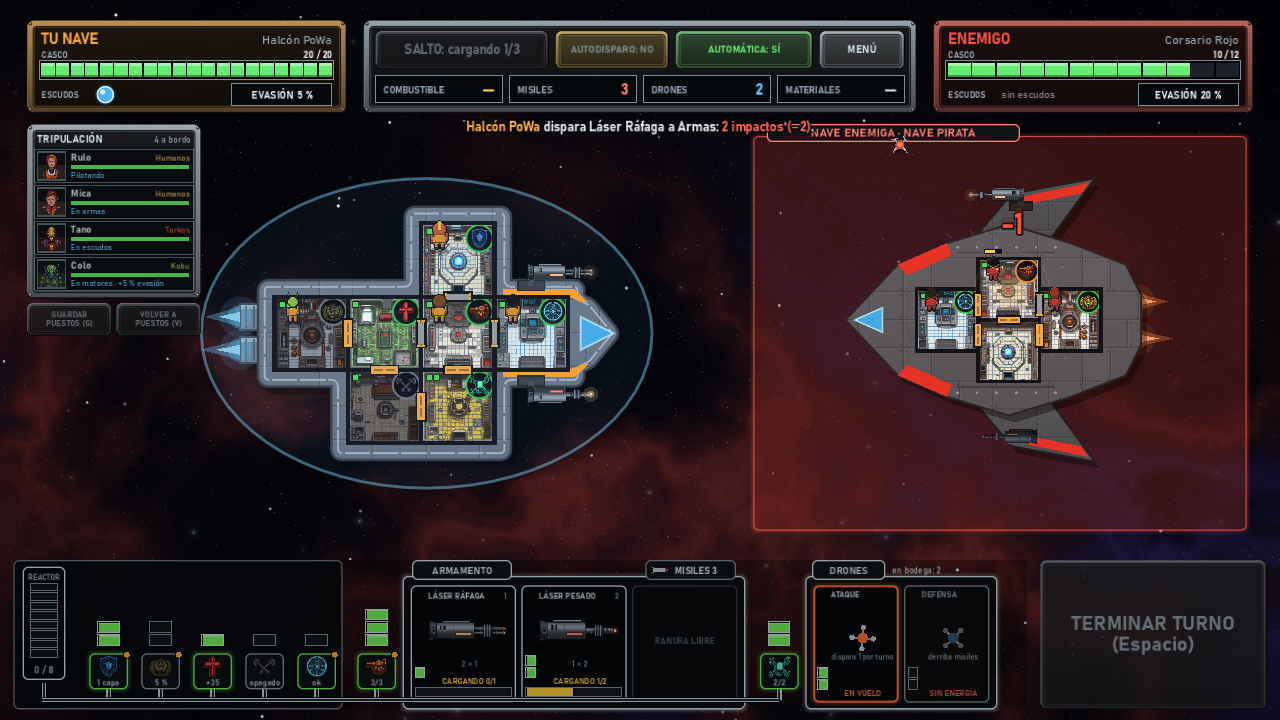
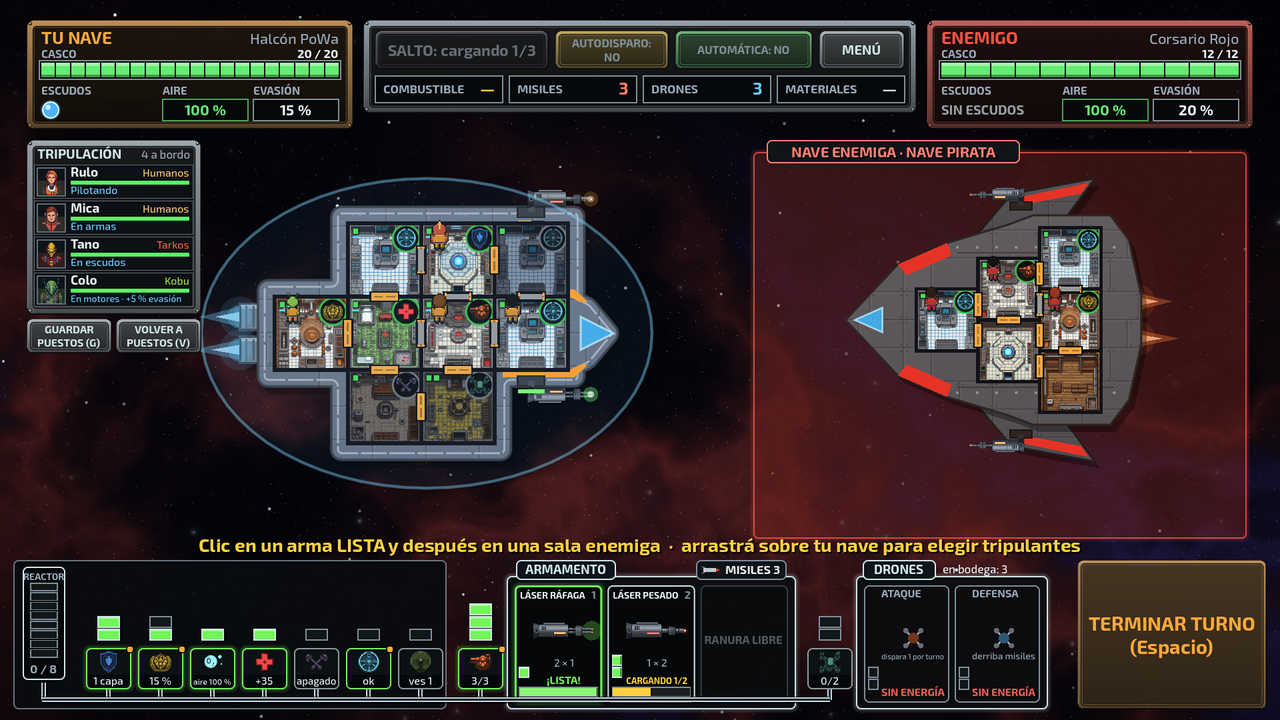
Demo v0.1.7: preparar combate, 33 eventos, mercados en el mapa

Changed region(s): [[0.0, 0.0306, 1.0, 0.6417], [0.0, 0.7333, 1.0, 1.0], [0.7188, 0.275, 0.9062, 0.6417]]

diff --git a/README.md b/README.md
@@ -8,9 +8,9 @@ antes de que ella te encuentre a vos.
 
 ## Descargar
 
-**[Descargá la demo v0.1.6](https://github.com/sebapowa/GalaxiaPoWa/releases/latest)** (Windows 10 u 11, 64 bits, 39 MB).
+**[Descargá la demo v0.1.7](https://github.com/sebapowa/GalaxiaPoWa/releases/latest)** (Windows 10 u 11, 64 bits, 39 MB).
 
-1. Bajá `GalaxiaPoWa_v0.1.6.zip` y descomprimilo.
+1. Bajá `GalaxiaPoWa_v0.1.7.zip` y descomprimilo.
 2. Abrí `Galaxia PoWa.exe`. No hace falta instalar nada.
 3. ¿Primera vez? Probá **TUTORIAL GUIADO** en el menú: una expedición de práctica que te va marcando qué hacer.
 
@@ -22,7 +22,8 @@ antes de que ella te encuentre a vos.
 
 - **Una galaxia nueva en cada partida**: unos 140 sistemas en seis regiones, con planetas, razas, estaciones y zonas sin ley.
 - **Supervivencia**: cada salto es un día; la tripulación come, el combustible se gasta y el casco se repara en los mercados.
-- **Combate nave contra nave** por turnos o en tiempo real con pausa: energía del reactor, escudos, armas, drones y una tripulación que repara, cura y pilotea.
+- **Combate nave contra nave** por turnos o en tiempo real con pausa: energía del reactor, escudos, armas, drones, fuego, oxígeno y una tripulación que repara, cura y pilotea. Antes de zarpar podés dejar preparada la energía y el orden de las armas.
+- **33 eventos** al explorar: esclavistas, cazarrecompensas, duelos, contrabandistas, ruinas, naves hospital... muchos terminan en pelea con premio.
 - **Bases y colonias**: minas, depósitos, naves de carga, terraformadores y colonias que crecen, pagan impuestos y atraen piratas.
 - **Cantinas y mercados**: rumores, informantes, gente para contratar, trueques y armas.
 - **Oficios** para tu tripulación, que con los días se vuelve experta y maestra.
@@ -39,7 +40,7 @@ antes de que ella te encuentre a vos.
 
 ## Estado
 
-Es una **demo**: todavía no tiene sonido y el balance es el primero. Si encontrás algo raro, avisale a SeBaPoWa.
+Es una **demo**: tiene efectos de sonido pero todavía no tiene música, y el balance es el primero. Si encontrás algo raro, avisale a SeBaPoWa.
 
 ## Créditos
 
